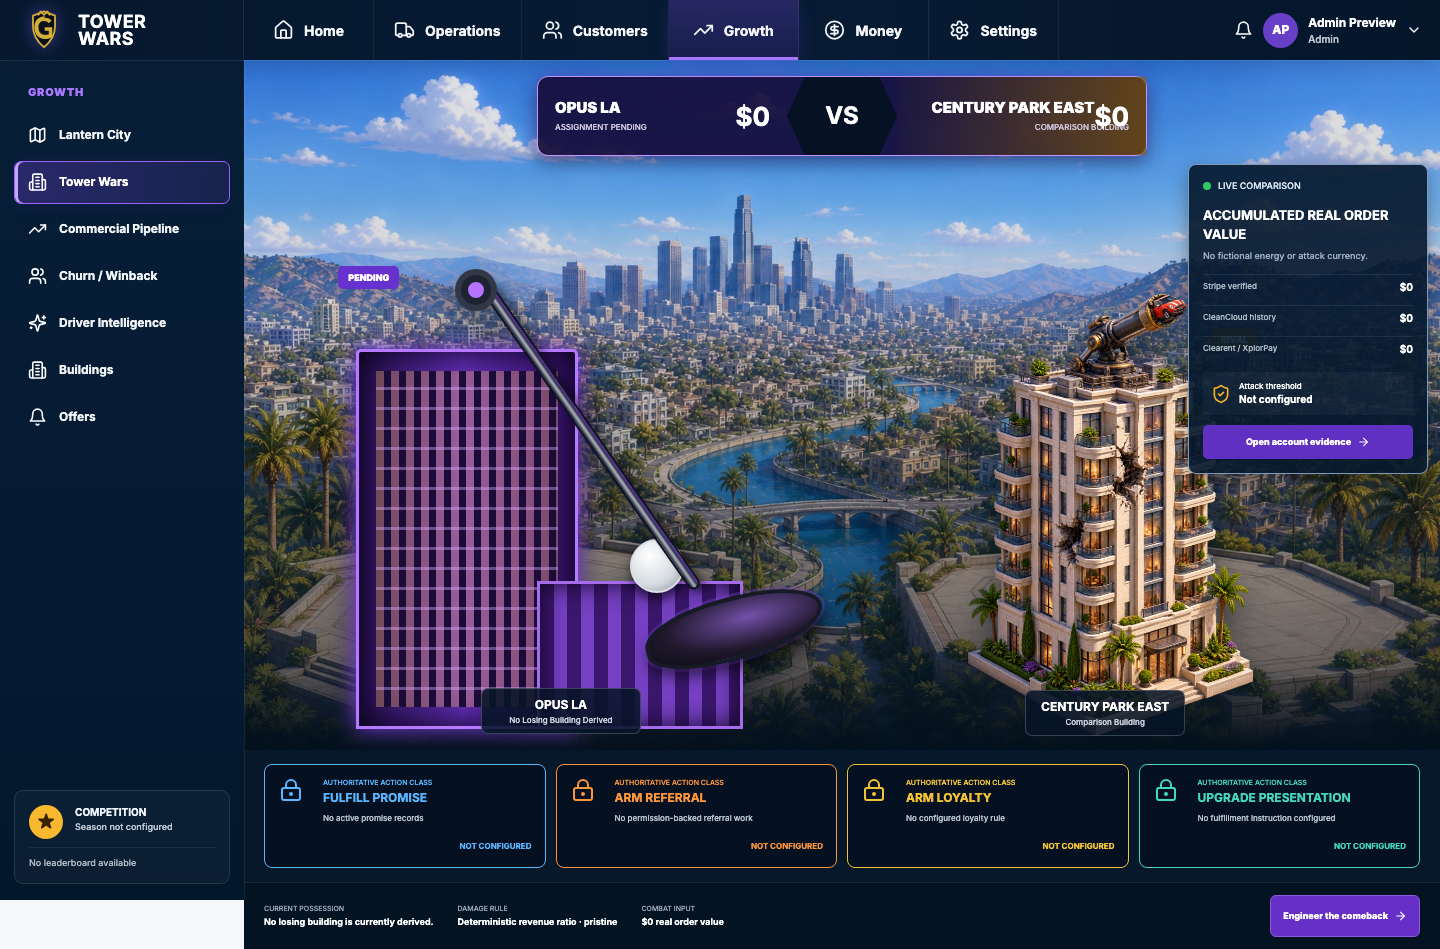
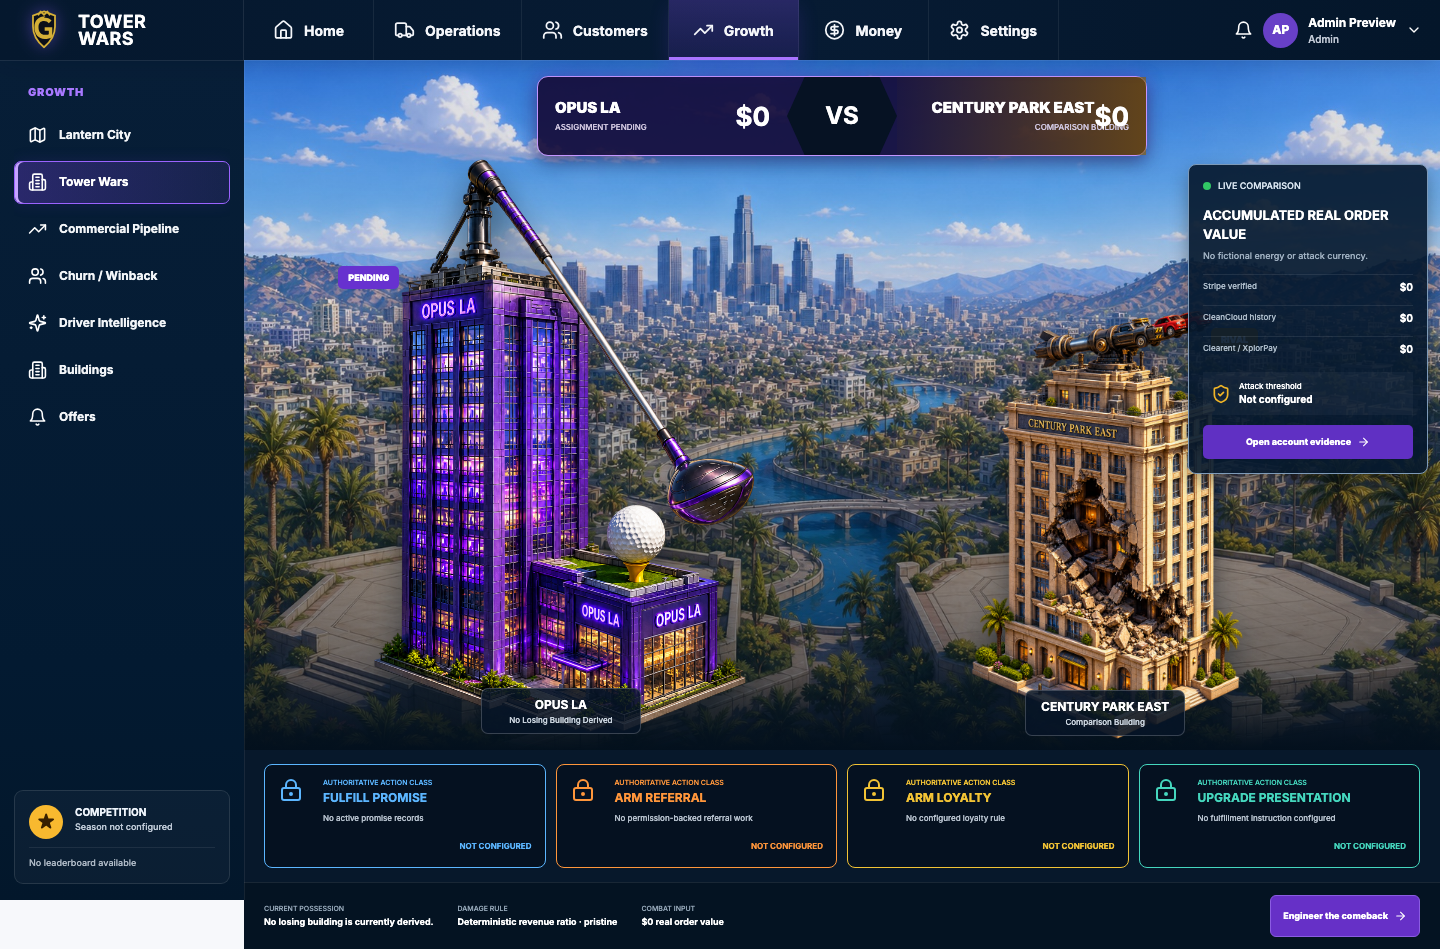
Use dimensional tower art across Admin world views

Changed region(s): [[0.2188, 0.1528, 0.5938, 0.7945], [0.6562, 0.3056, 0.875, 0.764]]

diff --git a/client/src/pages/AdminHome.tsx b/client/src/pages/AdminHome.tsx
@@ -65,8 +65,8 @@ export default function AdminHome({ operatorName = "Admin", path = "/", onNaviga
         <img src={WORLD_IMAGE} alt="Illustrated Los Angeles business world" /><div className="pwc-world-shade" />
         <header><strong>Live world overview — Los Angeles</strong><span className={sourceGap ? "has-gap" : ""}><i /> {sourceGap ? "Source gap" : "Live"}</span></header>
         {[{ label: "West Hollywood", x: 13, y: 24 }, { label: "Beverly Hills", x: 12, y: 52 }, { label: "Century City", x: 18, y: 81 }, { label: "Hollywood", x: 46, y: 37 }, { label: "Koreatown", x: 54, y: 76 }, { label: "Los Feliz", x: 78, y: 25 }, { label: "Silver Lake", x: 84, y: 50 }, { label: "Echo Park", x: 87, y: 77 }].map(neighborhood => <span key={neighborhood.label} className="pwc-place" style={{ left: `${neighborhood.x}%`, top: `${neighborhood.y}%` }}>{neighborhood.label}</span>)}
-        <button type="button" className="pwc-building cpe" onClick={() => onNavigate("/growth/tower-wars")}><span /><strong>Century Park East</strong><small>Century City · {customers.isLoading || customers.isError ? "—" : buildingCounts.century} customers</small></button>
-        <button type="button" className="pwc-building opus" onClick={() => onNavigate("/growth/tower-wars")}><span /><strong>OPUS LA</strong><small>Koreatown · {customers.isLoading || customers.isError ? "—" : buildingCounts.opus} customers</small></button>
+        <button type="button" className="pwc-building cpe" onClick={() => onNavigate("/growth/tower-wars")}><img className="pwc-building-art" src="/assets/admin/control-room/tower-wars/century-park-east-tower-v2.png" alt="" /><strong>Century Park East</strong><small>Century City · {customers.isLoading || customers.isError ? "—" : buildingCounts.century} customers</small></button>
+        <button type="button" className="pwc-building opus" onClick={() => onNavigate("/growth/tower-wars")}><img className="pwc-building-art" src="/assets/admin/control-room/tower-wars/opus-la-tower-v2.png" alt="" /><strong>OPUS LA</strong><small>Koreatown · {customers.isLoading || customers.isError ? "—" : buildingCounts.opus} customers</small></button>
         {churnRisk > 0 ? <button type="button" className="pwc-risk-lantern" onClick={() => onNavigate("/growth/lantern-city")} aria-label={`${churnRisk} churn-risk lanterns`}><span className="pwc-lantern-symbol" /><b>{churnRisk}</b></button> : null}
       </div>
       <aside className="pwc-alerts">

diff --git a/client/src/components/admin/control-room/admin-control-room.css b/client/src/components/admin/control-room/admin-control-room.css
@@ -15,6 +15,8 @@
 
 /* Independent OPUS building and architectural-scale driver layers */
 .tw-opus-art{position:absolute;inset:2% 0 0;filter:drop-shadow(0 18px 18px #06111e99)}
+.tw-building-layer{mix-blend-mode:screen}.tw-piece.is-opus .tw-building-layer{transform:scale(1.12);transform-origin:center bottom;mix-blend-mode:screen}.tw-piece.is-century .tw-building-layer{transform:scale(.96);transform-origin:center bottom;mix-blend-mode:screen}
+.pwc-building{width:164px;height:214px;justify-content:flex-end}.pwc-building-art{position:absolute;z-index:-1;left:50%;bottom:30px;width:148px;height:188px;transform:translateX(-50%);object-fit:contain;object-position:center bottom;mix-blend-mode:screen;filter:drop-shadow(0 8px 10px #07142b66)}.pwc-building.cpe .pwc-building-art{width:138px}.pwc-building strong,.pwc-building small{position:relative;z-index:2}.pwc-building.cpe{left:11%;bottom:5%}.pwc-building.opus{left:49%;bottom:3%}
 .tw-opus-tower{position:absolute;left:15%;bottom:4%;width:38%;height:72%;overflow:hidden;border:3px solid #b57aff;border-radius:5px 5px 0 0;background:linear-gradient(90deg,#26104e,#6630bd 48%,#341066);box-shadow:inset 0 0 35px #070215,0 0 22px #7d3de4}
 .tw-opus-tower>span{position:absolute;inset:5% 8%;background:repeating-linear-gradient(0deg,transparent 0 17px,#dfacff66 17px 20px),repeating-linear-gradient(90deg,#ffb75f55 0 8px,#1b0b39 8px 15px)}
 .tw-opus-tower:after{content:"";position:absolute;inset:24% 13% 18% 49%;opacity:.22;background:linear-gradient(64deg,transparent 43%,#020106 44% 48%,transparent 49%),linear-gradient(116deg,transparent 40%,#020106 41% 45%,transparent 46%)}

diff --git a/client/src/components/admin/control-room/TowerWars.tsx b/client/src/components/admin/control-room/TowerWars.tsx
@@ -36,8 +36,11 @@ const ACTION_CLASSES = [
 ] as const;
 
 function BuildingArt({ opus, name, damage }: { opus: boolean; name: string; damage: TowerDamageState }) {
-  if (!opus) return <img className="tw-building-layer" src="/assets/admin/control-room/tower-wars/century-bazooka-optimized.png" alt={`${name}, ${damage.replace("-", " ")} damage`} />;
-  return <div className="tw-opus-art" role="img" aria-label={`${name}, ${damage.replace("-", " ")} damage, with architectural-scale hinged golf driver`}><div className="tw-opus-tower"><span /></div><div className="tw-opus-annex"><b /></div><i className="tw-driver-pivot" /><i className="tw-driver-shaft" /><i className="tw-driver-head" /></div>;
+  const src = opus
+    ? "/assets/admin/control-room/tower-wars/opus-la-tower-v2.png"
+    : "/assets/admin/control-room/tower-wars/century-park-east-tower-v2.png";
+  const weapon = opus ? "architectural-scale hinged golf driver" : "compact rooftop valet bazooka";
+  return <img className="tw-building-layer" src={src} alt={`${name}, ${damage.replace("-", " ")} damage, with ${weapon}`} />;
 }
 
 export function TowerWars({ data, loading, onNavigate, compact = false }: TowerWarsProps) {

diff --git a/client/src/pages/AdminHostApp.test.ts b/client/src/pages/AdminHostApp.test.ts
@@ -74,6 +74,14 @@ describe("truth-bound visual rules", () => {
     expect(towerSource).not.toMatch(/⚡|100\/100|Season 7|3,450/);
   });
 
+  it("uses the dimensional OPUS LA and Century Park East assets on Tower Wars and Home", () => {
+    for (const asset of ["opus-la-tower-v2.png", "century-park-east-tower-v2.png"]) {
+      expect(towerSource).toContain(asset);
+      expect(homeSource).toContain(asset);
+    }
+    expect(towerSource).not.toContain('className="tw-opus-art"');
+  });
+
   it("shows Clockhead and Collector only under authoritative conditions", () => {
     expect(homeSource).toContain("promiseRisk.length > 0");
     expect(homeSource).toContain("overdueFollowups.length > 0");
